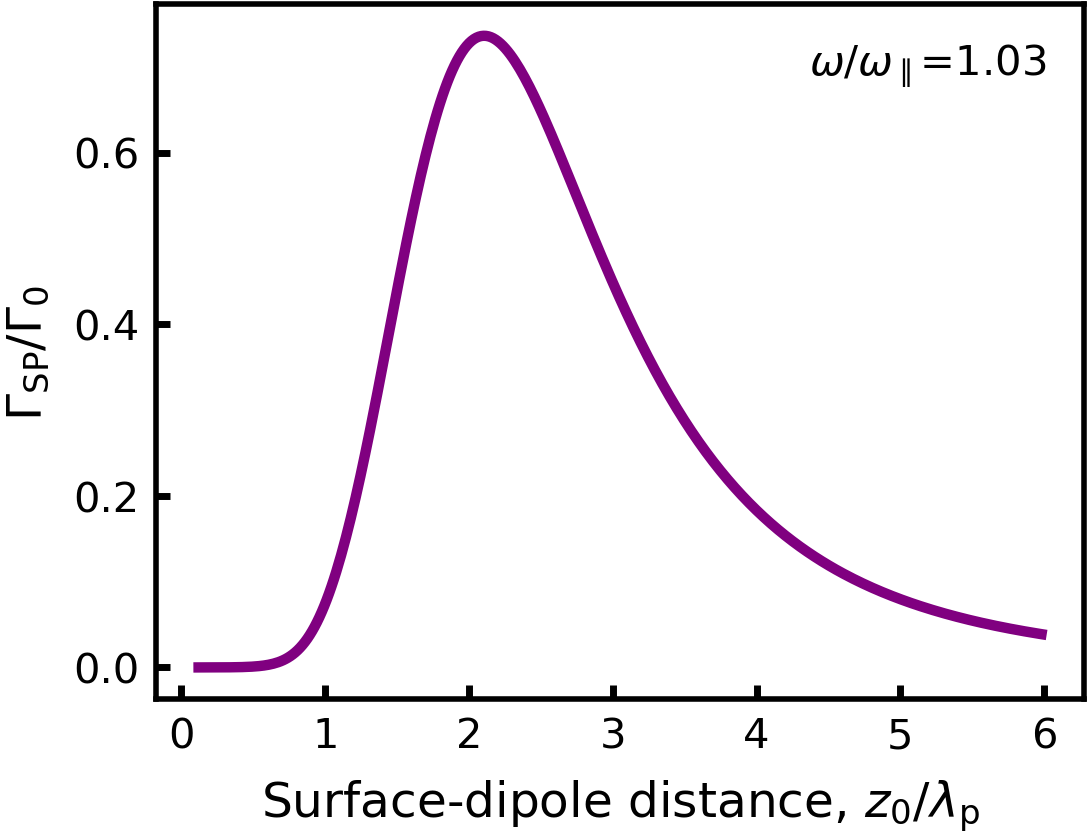
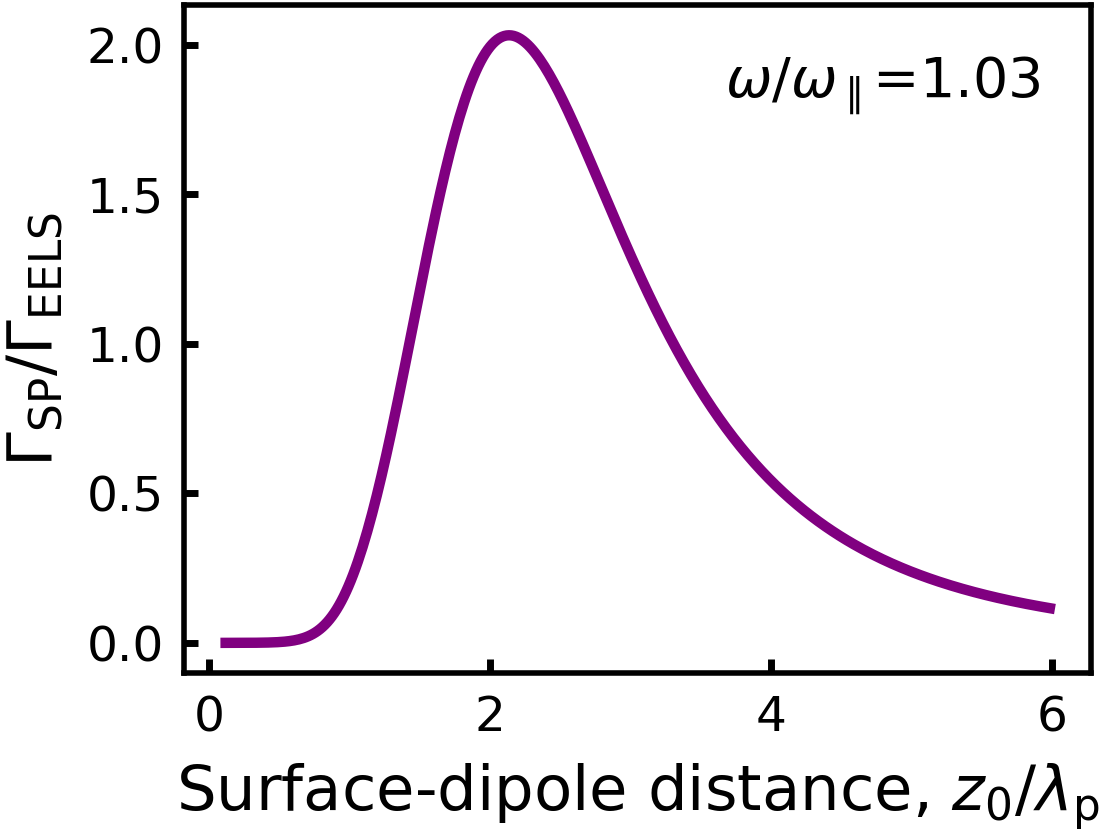
update from icfo dell

Changed region(s): [[0.0, 0.0, 1.0, 0.994], [0.5625, 0.8698, 0.5938, 0.9008], [0.0625, 0.0621, 0.0938, 0.0932]]

diff --git a/hBn-disks-v2/potential_field/potential_and_electric_field_with_dipole_moment_formula/decay_rate_film_resonance.py b/hBn-disks-v2/potential_field/potential_and_electric_field_with_dipole_moment_formula/decay_rate_film_resonance.py
@@ -21,7 +21,7 @@ path_constants =  path_basic.replace('/potential_field/potential_and_electric_fi
 
 try:
     sys.path.insert(1, path_basic)
-    from dipole_moment import dipole_moment_ana_resonance_v1,dipole_moment_ana_resonance_v2, dipole_moment_pole_aprox_resonance_v1,dipole_moment_pole_aprox_resonance_v2, dipole_moment_num_resonance,dipole_moment_anav1_for_decay_rate_resonance
+    from dipole_moment import dipole_moment_pole_aprox_resonance_v1,dipole_moment_pole_aprox_resonance_v2, dipole_moment_num_resonance,dipole_moment_anav2_for_decay_rate_resonance, dipole_moment_ana_for_decay_rate_resonance_dir
 except ModuleNotFoundError:
     print('dipole_moment.py no se encuentra en ' + path_basic)
 
@@ -175,6 +175,84 @@ def EELS_film_ana_f_div_gamma0(omegac,epsi_silica,d_nano,int_v,b,zp):
     gamma0 = factor_gamma0*(K0**2/gamma**2 + K1**2)*np.imag(alpha)/np.pi  ## decay rate de 1 dipolo # pero sin el "e/hbar" se cancela con el momento dipolar^2
     
     return cte_aux*np.imag(Green_self)/gamma0
+
+
+
+
+def EELS_film_ana_f_div_gamma0_v2(omegac,epsi_silica,d_nano,int_v,b,zp):     
+    """    
+    Parameters
+    ----------
+    omegac : omega/c = k0 en 1/micrometros    
+    epsi1 : epsilon del medio de arriba del plano
+    epsi2 : epsilon del medio de abajo del plano
+    hbmu : chemical potential in eV  
+    hbgama : collision frequency in eV
+    z : coordenada z
+    xD : coordenada x del dipolo 
+    yD : coordenada y del dipolo
+    zD : coordenada z del dipolo 
+    zp : posicion del plano (>0)
+    px : coordenada x del dipolo 
+    py : coordenada y del dipolo
+    pz : coordenada z del dipolo
+    Returns
+    -------
+    formula del potencial electric con QE approximation, rp con 
+    aproximacion del polo y con aprox de principal value para las integrales
+    con rp
+    """
+
+    E = omegac*aux
+#    k0 = omegac #=omega/c
+    # x_y = ky/k0
+
+#    k1_2 = (k0*cte1)**2
+ #   n_v1 = int_v/cte1
+#    k1_2 = k1**2
+    px_v,py_v,pz_v = dipole_moment_pole_aprox_resonance_v1(omegac,epsi_silica,d_nano,int_v,b,zp)
+#    print(px_v,py_v,pz_v)
+#    px_tot_2 = np.abs(px_v)**2 + np.abs(py_v)**2 + np.abs(pz_v)**2 
+    rtaself_x1, rtaself_y1, rtaself_z1  =  green_self_pole_aprox_v1(omegac,epsi_silica,d_nano,zp)
+    rtaself_x2, rtaself_y2, rtaself_z2  =  green_self_num_integral_inside_light_cone(omegac,epsi_silica,d_nano,zp)
+
+    rtaself_x, rtaself_y, rtaself_z  =  rtaself_x1 - rtaself_x2, rtaself_y1 - rtaself_y2, rtaself_z1 - rtaself_z2
+    
+    Green_self = rtaself_x*(np.abs(px_v)**2) + rtaself_y*(np.abs(py_v)**2)  + rtaself_z*(np.abs(pz_v)**2)
+#    print(rtaself_x)
+
+#    kp = np.real(kp)   ### neglecting the imaginary part of kp para la formula de EELS (la del campo)
+#    alfa_p = np.real(alfa_p)  ### neglecting the imaginary part of kp para la formula de EELS (la del campo)
+ 
+###################################################################################################
+    usar_dif_p = 0
+    usar_mismo_p = 1
+
+    if usar_dif_p == 1:  
+        
+        px_dir,py_dir,pz_dir = dipole_moment_ana_for_decay_rate_resonance_dir(omegac,int_v,b,zp)
+        
+        denominador = np.abs(px_dir)**2 +  np.abs(py_dir)**2 +  np.abs(pz_dir)**2
+
+        rta = np.imag(Green_self*2*(omegac**3)/denominador)    
+    
+    if usar_mismo_p == 1: ## aca los momentos p se cancelan  
+        
+        px_dir,py_dir,pz_dir = dipole_moment_pole_aprox_resonance_v1(omegac,epsi_silica,d_nano,int_v,b,zp) # multiplicar por e/(2*pi*v)
+
+        denominador = np.abs(px_dir)**2 +  np.abs(py_dir)**2 +  np.abs(pz_dir)**2
+
+        alffa_eff_x = 1j*(2*omegac**3/(3*epsi_silica(E)) +  np.imag(rtaself_x))**(-1)
+        alffa_eff_y = 1j*(2*omegac**3/(3*epsi_silica(E)) +  np.imag(rtaself_y))**(-1)
+        alffa_eff_z = 1j*(2*omegac**3/(3*epsi_silica(E)) +  np.imag(rtaself_z))**(-1)
+    
+        alfa_eff = np.abs(alffa_eff_x)**2 + np.abs(alffa_eff_y)**2 + np.abs(alffa_eff_z)**2 
+
+    
+        rta = np.imag(Green_self*alfa_eff*2*(omegac**3)/denominador )
+
+    return rta 
+
 
 
 #%%

diff --git a/hBn-disks-v2/potential_field/potential_and_electric_field_with_dipole_moment_formula/dipole_moment.py b/hBn-disks-v2/potential_field/potential_and_electric_field_with_dipole_moment_formula/dipole_moment.py
@@ -27,7 +27,7 @@ except ModuleNotFoundError:
 
 
 try:
-    sys.path.insert(1, path_constants)
+    sys.path.insert(1, path_basic)
     from green_self_image import green_self_pole_aprox_v1,green_self_pole_aprox_v2, green_self_ana_v2, green_self_ana_v1, green_self_num,green_self_num_integral_inside_light_cone
 except ModuleNotFoundError:
     print('green_self_image.py no se encuentra en ' + path_basic)
@@ -237,7 +237,7 @@ def dipole_moment_ana_resonance_v2(omegac,epsi_silica,d_nano,int_v,b,zp):
 
 
 
-def dipole_moment_anav1_for_decay_rate_resonance(omegac,epsi_silica,d_nano,int_v,b,zp):     
+def dipole_moment_anav2_for_decay_rate_resonance(omegac,epsi_silica,d_nano,int_v,b,zp):     
     """    
     Parameters
     ----------
@@ -266,7 +266,7 @@ def dipole_moment_anav1_for_decay_rate_resonance(omegac,epsi_silica,d_nano,int_v
 #    k1_2 = (k0*cte1)**2
  #   n_v1 = int_v/cte1
 
-    rtaself_x1, rtaself_y1, rtaself_z1  =  green_self_ana_v1(omegac,epsi_silica,d_nano,zp)
+    rtaself_x1, rtaself_y1, rtaself_z1  =  green_self_ana_v2(omegac,epsi_silica,d_nano,zp)
     rtaself_x2, rtaself_y2, rtaself_z2  =  green_self_num_integral_inside_light_cone(omegac,epsi_silica,d_nano,zp)
 
     rtaself_x, rtaself_y, rtaself_z  =  rtaself_x1 - rtaself_x2, rtaself_y1 - rtaself_y2, rtaself_z1 - rtaself_z2
@@ -311,6 +311,52 @@ def dipole_moment_anav1_for_decay_rate_resonance(omegac,epsi_silica,d_nano,int_v
     
     
     return px, py, pz
+
+
+
+def dipole_moment_ana_for_decay_rate_resonance_dir(omegac,int_v,b,zp):     
+    """    
+    Parameters
+    ----------
+    omegac : omega/c = k0 en 1/micrometros    
+    epsi1 : epsilon del medio de arriba del plano
+    epsi2 : epsilon del medio de abajo del plano
+    hbmu : chemical potential in eV  
+    hbgama : collision frequency in eV
+    z : coordenada z
+    xD : coordenada x del dipolo 
+    yD : coordenada y del dipolo
+    zD : coordenada z del dipolo 
+    zp : posicion del plano (>0)
+    px : coordenada x del dipolo 
+    py : coordenada y del dipolo
+    pz : coordenada z del dipolo
+    Returns
+    -------
+    px,py,pz en unidades de k*alfa_eff
+    """
+
+
+#    k1_2 = (k0*cte1)**2
+      
+    arg = np.abs(b)*omegac*int_v
+    K1 = special.kn(1,arg)
+    K0 = special.kn(0,arg)
+
+    
+#    term_extra = 2*np.pi*1j*Rp*kp*np.abs(kp)*expo/ky
+    
+    
+    px = 1j*omegac*int_v*K0 
+    
+    py = -2*omegac*int_v*K1 
+                         
+    pz = -omegac*int_v*K1 
+    
+    return px, py, pz
+
+
+
 
 #%%
 

diff --git a/hBn-disks-v2/potential_field/potential_and_electric_field_with_dipole_moment_formula/plot_decay_rate_film_resonance_normalized.py b/hBn-disks-v2/potential_field/potential_and_electric_field_with_dipole_moment_formula/plot_decay_rate_film_resonance_normalized.py
@@ -37,7 +37,7 @@ if not os.path.exists(path_save):
 err = 'decay_rate_film3.py no se encuentra en ' + path_basic
 try:
     sys.path.insert(1, path_basic)
-    from decay_rate_film_resonance import EELS_film_ana_f_div_gamma0
+    from decay_rate_film_resonance import EELS_film_ana_f_div_gamma0,EELS_film_ana_f_div_gamma0_v2
 except ModuleNotFoundError:
     print(err)
 try:
@@ -84,7 +84,7 @@ d_nano = 0.1
 #title2 = r'$\hbar\mu$ = %.2feV, $\hbar\gamma$ = %.4feV' %(hbmu,hbgama) 
 #title3 = r'$z_p$=%inm, px=%i, py=%i, pz=%i' %(zp*1e3,px,py,pz)
 title4 = r'b = %i nm' %(b*1e3)
-labelp = r'_res_d%inm' %(d_nano) 
+labelp = r'_res_d%.2fnm' %(d_nano) 
 
 N = 350
 
@@ -94,7 +94,7 @@ def function_imag_ana(energy0,int_v,zp_nano):
     omegac0 = energy0/aux 
     zp = zp_nano*1e-3
 
-    rta1 = EELS_film_ana_f_div_gamma0(omegac0,epsilon_Silica,d_nano,int_v,b,zp)
+    rta1 = EELS_film_ana_f_div_gamma0_v2(omegac0,epsilon_Silica,d_nano,int_v,b,zp)
 #    rta2 = EELS_dir_ana_f(omegac0,epsi1,epsi2,hbmu,hbgama,int_v,b,zp)
     
 #    print(rta1)
@@ -193,17 +193,17 @@ title =  title4
 #%%
     
 tamfig = [2.5, 2]
-tamletra = 7
+tamletra = 9
 tamtitle  = 8
-tamnum = 6
-tamlegend = 6
-labelpady = 2
+tamnum = 7
+tamlegend = 8
+labelpady = 3
 labelpadx = 3
-pad = 2.5
+pad = 3
 mk = 1
 ms = 2
 hp = 0.3
-length_marker = 1.5
+length_marker = 0
 dpi = 500
 
 def graph(title,labelx,labely,tamfig,tamtitle,tamletra,tamnum,labelpadx,labelpady,pad):
@@ -265,8 +265,8 @@ maxi2 = maxi/lambda_p_value
 omegaD_silver = 170.1*1e-3
 omega_omega_D = E0/(omegaD_silver)
 
-graph(title,labelx,r'$\Gamma_{\rm SP}/\Gamma_{\rm 0}$ $\times$ $10^{12}$',tamfig,tamtitle,tamletra,tamnum,labelpadx,labelpady,pad)
-plt.plot(listx_2,np.array(listy_im_ana)*1e-12,'-',ms = ms,color = 'purple')
+graph(title,labelx,r'$\Gamma_{\rm SP}/\Gamma_{\rm EELS}$',tamfig,tamtitle,tamletra,tamnum,labelpadx,labelpady,pad)
+plt.plot(listx_2,np.array(listy_im_ana),'-',ms = ms,color = 'purple')
 #plt.plot(listx,list_ana_parallel,'.-',ms = ms,color = 'darkred',label = r'$\Gamma_{\parallel}$')
 #plt.plot(np.ones(10)*maxi2, np.array(listy_aux)*1e-12,'-k',label = r'$z^{\rm opt}_{\rm o}$/$\lambda_{\rm p}$')
 plt.plot([],[],'-w',label = r'$\omega/\omega_{\parallel}$=%.2f'%(omega_omega_D))

diff --git a/hBn/potential_field/potential_and_electric_field_with_dipole_moment_formula/plot_decay_rate_film_resonance_normalized.py b/hBn/potential_field/potential_and_electric_field_with_dipole_moment_formula/plot_decay_rate_film_resonance_normalized.py
@@ -171,17 +171,17 @@ title =  title4
 #%%
     
 tamfig = [2.5, 2]
-tamletra = 7
+tamletra = 9
 tamtitle  = 8
-tamnum = 6
-tamlegend = 6
+tamnum = 7
+tamlegend = 8
 labelpady = 2
 labelpadx = 3
-pad = 2.5
+pad = 3
 mk = 1
 ms = 2
 hp = 0.3
-length_marker = 1.5
+length_marker = 0
 dpi = 500
 
 def graph(title,labelx,labely,tamfig,tamtitle,tamletra,tamnum,labelpadx,labelpady,pad):
@@ -242,7 +242,7 @@ maxi2 = maxi/lambda_p_value
 omegaD_silver = 170.1*1e-3
 omega_omega_D = E0/(omegaD_silver)
 
-graph(title,labelx,r'$\Gamma_{\rm SP}/\Gamma_{\rm 0}$',tamfig,tamtitle,tamletra,tamnum,labelpadx,labelpady,pad)
+graph(title,labelx,r'$\Gamma_{\rm SP}/\Gamma_{\rm EELS}$',tamfig,tamtitle,tamletra,tamnum,labelpadx,labelpady,pad)
 plt.plot(listx_2,np.array(listy_im_ana),'-',ms = ms,color = 'purple')
 #plt.plot(listx,list_ana_parallel,'.-',ms = ms,color = 'darkred',label = r'$\Gamma_{\parallel}$')
 #plt.plot(np.ones(10)*maxi2, np.array(listy_aux)*1e-12,'-k',label = r'$z^{\rm opt}_{\rm o}$/$\lambda_{\rm p}$')

diff --git a/hBn-disks-v2/potential_field/potential_and_electric_field_with_dipole_moment_formula/green_self_image.py b/hBn-disks-v2/potential_field/potential_and_electric_field_with_dipole_moment_formula/green_self_image.py
@@ -16,16 +16,16 @@ from scipy import integrate
 name_this_py = os.path.basename(__file__)
 path = os.path.abspath(__file__) #path absoluto del .py actual
 path_basic = path.replace('/' + name_this_py,'')
-#print('Importar modulos necesarios para este codigo')
+path_constants =  path_basic.replace('/potential_field/potential_and_electric_field_with_dipole_moment_formula','')
 try:
-    sys.path.insert(1, path_basic)
+    sys.path.insert(1, path_constants)
     from rp_coefficient import rp_fresnel_num, rp_pole_aprox, epsilon_x, epsilon_z
 except ModuleNotFoundError:
     print('hBn_PP.py no se encuentra en ' + path_basic)
 
 
 try:
-    sys.path.insert(1, path_basic)
+    sys.path.insert(1, path_constants)
     from constants import constantes
 except ModuleNotFoundError:
     print('constants.py no se encuentra en ' + path_basic)

diff --git a/hBn/potential_field/potential_and_electric_field_with_dipole_moment_formula/decay_rate_film_resonance.py b/hBn/potential_field/potential_and_electric_field_with_dipole_moment_formula/decay_rate_film_resonance.py
@@ -222,8 +222,8 @@ def EELS_film_ana_f_div_gamma0_v2(omegac,epsi1,epsi3,d_nano,int_v,b,zp):
 #    alfa_p = np.real(alfa_p)  ### neglecting the imaginary part of kp para la formula de EELS (la del campo)
  
 ###################################################################################################
-    usar_dif_p = 1
-    usar_mismo_p = 0
+    usar_dif_p = 0
+    usar_mismo_p = 1
 
     if usar_dif_p == 1:  
         
